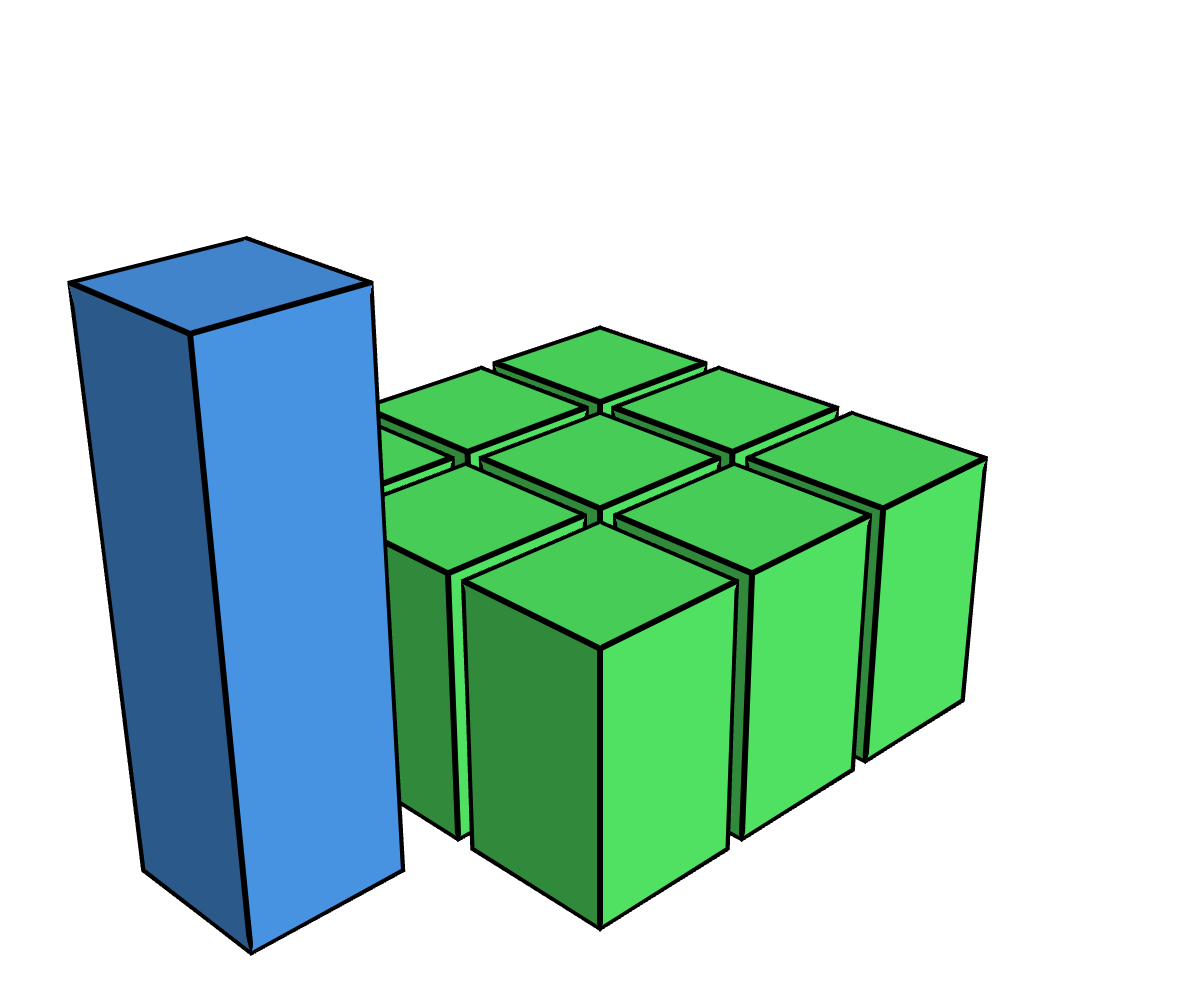
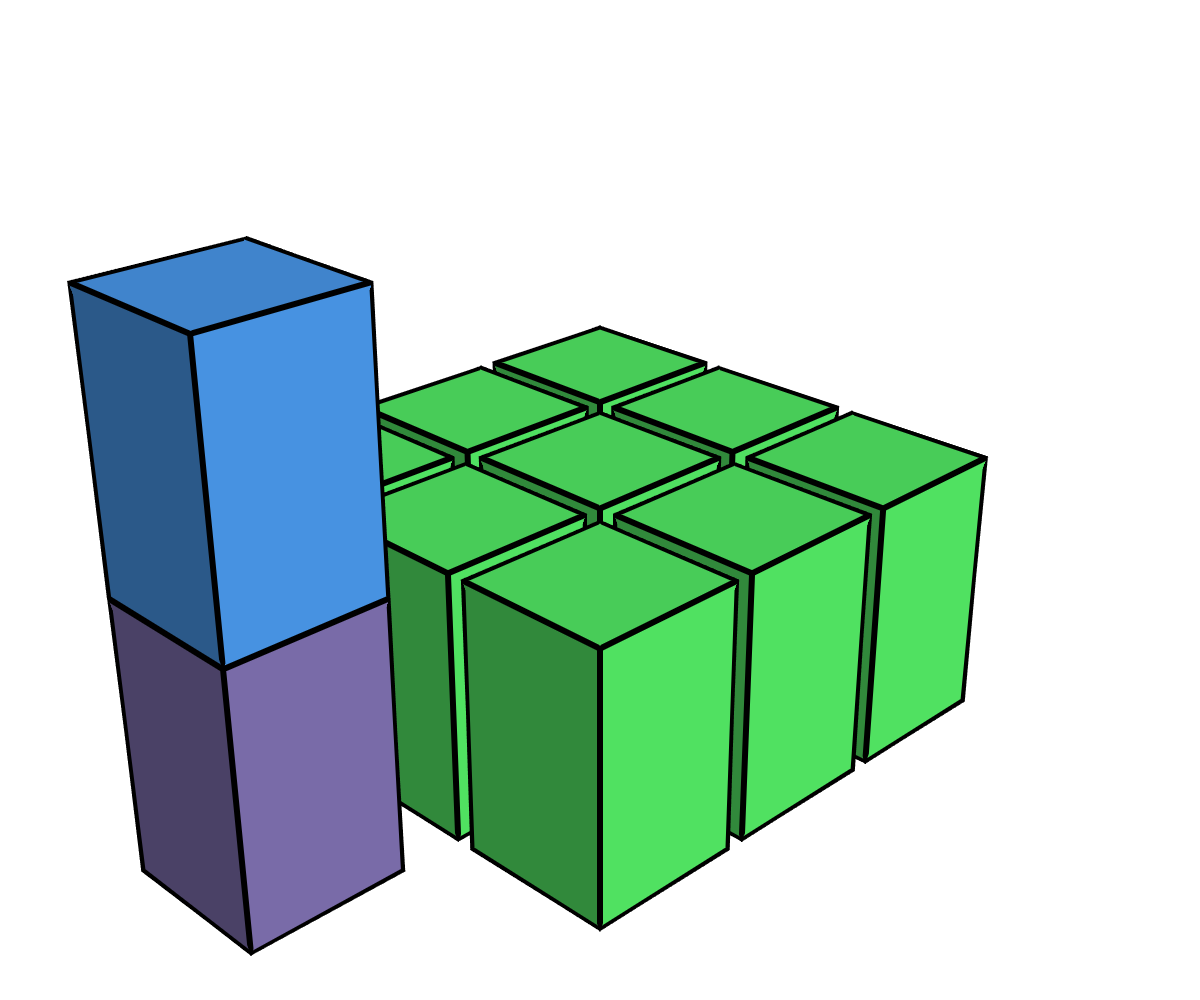
More updates to global state images

Changed region(s): [[0.0925, 0.589, 0.3392, 0.961]]

diff --git a/plotters/mayavi_off_screen.py b/plotters/mayavi_off_screen.py
@@ -181,11 +181,13 @@ def async_frame_11():
 global_state_size = (1200, 1000)
 
 
-def plot_global_state_bar_no_save(fig, height: int, color: tuple):
+def plot_global_state_bar_no_save(
+    fig, plot_bottom: int, plot_top: int, color: tuple
+):
     x = np.array([-1.25])
     y = np.array([1.0])
-    z_bottom = np.array([0.0])
-    z_top = squash * np.array([height])
+    z_bottom = squash * np.array([plot_bottom])
+    z_top = squash * np.array([plot_top])
     bar = mlab.barchart(x, y, z_bottom, z_top, color=color, figure=fig)
     set_line_width(bar)
 
@@ -193,8 +195,8 @@ def plot_global_state_bar_no_save(fig, height: int, color: tuple):
 def plot_staggered_with_global_state(
     frame: int,
     level: int,
-    global_state_height: int,
-    global_state_color: tuple,
+    global_state_heights: list,
+    global_state_colors: list,
 ):
     fig, filename = start("global_state", frame)
 
@@ -205,9 +207,17 @@ def plot_staggered_with_global_state(
     bar = mlab.barchart(x, y, z_bottom, z_top, color=green, figure=fig)
     set_line_width(bar)
 
-    plot_global_state_bar_no_save(
-        fig, height=global_state_height, color=global_state_color
-    )
+    local_bottom = bottom
+    for top, global_state_color in zip(
+        global_state_heights, global_state_colors
+    ):
+        plot_global_state_bar_no_save(
+            fig,
+            plot_bottom=local_bottom,
+            plot_top=top,
+            color=global_state_color,
+        )
+        local_bottom = top
 
     set_scene()
 
@@ -218,8 +228,8 @@ def plot_flat_top_with_global_state(
     frame: int,
     height: int,
     color: tuple,
-    global_state_height: int,
-    global_state_color: tuple,
+    global_state_heights: list,
+    global_state_colors: list,
 ):
     fig, filename = start("global_state", frame)
 
@@ -230,9 +240,17 @@ def plot_flat_top_with_global_state(
     bar = mlab.barchart(x, y, z_bottom, z_top, color=color, figure=fig)
     set_line_width(bar)
 
-    plot_global_state_bar_no_save(
-        fig, height=global_state_height, color=global_state_color
-    )
+    local_bottom = bottom
+    for top, global_state_color in zip(
+        global_state_heights, global_state_colors
+    ):
+        plot_global_state_bar_no_save(
+            fig,
+            plot_bottom=local_bottom,
+            plot_top=top,
+            color=global_state_color,
+        )
+        local_bottom = top
 
     set_scene()
 
@@ -244,8 +262,8 @@ def global_state_frame_1():
         frame=1,
         height=2,
         color=green,
-        global_state_height=3,
-        global_state_color=purple,
+        global_state_heights=[3],
+        global_state_colors=[purple],
     )
 
 
@@ -254,8 +272,8 @@ def global_state_frame_2():
         frame=2,
         height=3,
         color=green,
-        global_state_height=3,
-        global_state_color=purple,
+        global_state_heights=[3],
+        global_state_colors=[purple],
     )
 
 
@@ -264,8 +282,8 @@ def global_state_frame_3():
         frame=3,
         height=3,
         color=red,
-        global_state_height=3,
-        global_state_color=purple,
+        global_state_heights=[3],
+        global_state_colors=[purple],
     )
 
 
@@ -274,8 +292,8 @@ def global_state_frame_4():
         frame=4,
         height=3,
         color=green,
-        global_state_height=6,
-        global_state_color=blue,
+        global_state_heights=[3, 3],
+        global_state_colors=[purple, blue],
     )
 
 
@@ -284,14 +302,14 @@ def global_state_frame_5():
         frame=5,
         height=4,
         color=green,
-        global_state_height=6,
-        global_state_color=blue,
+        global_state_heights=[3, 3],
+        global_state_colors=[purple, blue],
     )
 
 
 def global_state_frame_6():
     plot_staggered_with_global_state(
-        frame=6, level=5, global_state_height=3, global_state_color=purple
+        frame=6, level=5, global_state_heights=[3], global_state_colors=[purple]
     )
 
 
@@ -309,7 +327,9 @@ def global_state_frame_7():
     bar = mlab.barchart(x, y, z_bottom, z_top, color=red, figure=fig)
     set_line_width(bar)
 
-    plot_global_state_bar_no_save(fig, height=3, color=purple)
+    plot_global_state_bar_no_save(
+        fig, plot_bottom=bottom, plot_top=3, color=purple
+    )
 
     set_scene()
 
@@ -318,28 +338,25 @@ def global_state_frame_7():
 
 def global_state_frame_8():
     plot_staggered_with_global_state(
-        frame=8, level=3, global_state_height=6, global_state_color=blue
+        frame=8,
+        level=3,
+        global_state_heights=[3, 3],
+        global_state_colors=[purple, blue],
     )
 
 
 def global_state_frame_9():
     plot_staggered_with_global_state(
-        frame=9, level=4, global_state_height=6, global_state_color=blue
+        frame=9,
+        level=4,
+        global_state_heights=[3, 3],
+        global_state_colors=[purple, blue],
     )
 
 
 # For some reason the first image doesn't render properly so we put a dummy
 # image here instead
 test_off_screen_render()
-
-# Sync
-sync_async_frame_1("sync")
-sync_async_frame_2("sync")
-sync_async_frame_3("sync")
-sync_async_frame_4("sync")
-sync_frame_5()
-
-exit()
 
 # Global state
 global_state_frame_1()
@@ -351,6 +368,15 @@ global_state_frame_6()
 global_state_frame_7()
 global_state_frame_8()
 global_state_frame_9()
+
+exit()
+
+# Sync
+sync_async_frame_1("sync")
+sync_async_frame_2("sync")
+sync_async_frame_3("sync")
+sync_async_frame_4("sync")
+sync_frame_5()
 
 # Async
 sync_async_frame_1("async")

diff --git a/notes.md b/notes.md
@@ -22,6 +22,9 @@
 
 ## Need the following for global state
 
+Might need to change some of the global state images. Instead of having new
+global state be full blue bar, have blue bar stacked on top of purple bar.
+
 1. Green flat top level 2 with global state 3 ![](images/global_state_01.png =240x200)
 2. Green flat top level 3 with global state 3 ![](images/global_state_02.png =240x200)
 3. Red flat top level 3 with global state 3 ![](images/global_state_03.png =240x200)
